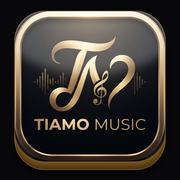
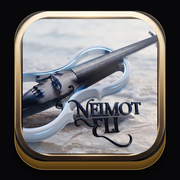
Add files via upload

diff --git a/install.js b/install.js
@@ -39,7 +39,7 @@
     if (!ios && !deferred) return;
     shown = true;
     box = document.createElement('div'); box.id = 'tiamo-install'; box.setAttribute('role', 'dialog');
-    box.innerHTML = '<img src="/icons/icon-192.png" alt=""><div class="t"><b>הוסיפו את TIAMO למסך הבית</b><span></span></div>';
+    box.innerHTML = '<img src="/icons/icon-192.png" alt=""><div class="t"><b>הוסיפו את NEIMOT-ELI למסך הבית</b><span></span></div>';
     box.querySelector('span').textContent = ios ? 'לחצו על כפתור השיתוף ⬆ בתחתית Safari, ואז "הוספה למסך הבית"' : 'כניסה מהירה לנעימות בלחיצה אחת';
     if (!ios) {
       var go = document.createElement('button'); go.className = 'go'; go.type = 'button'; go.textContent = 'הוספה';
